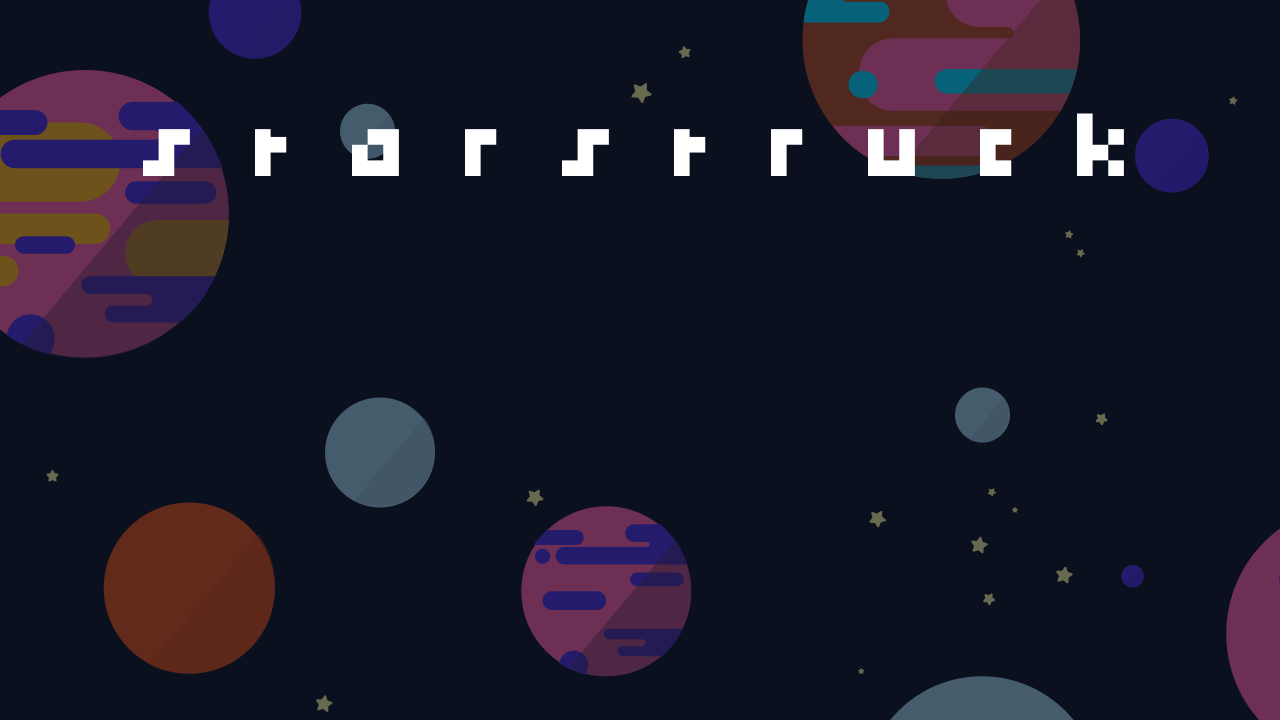
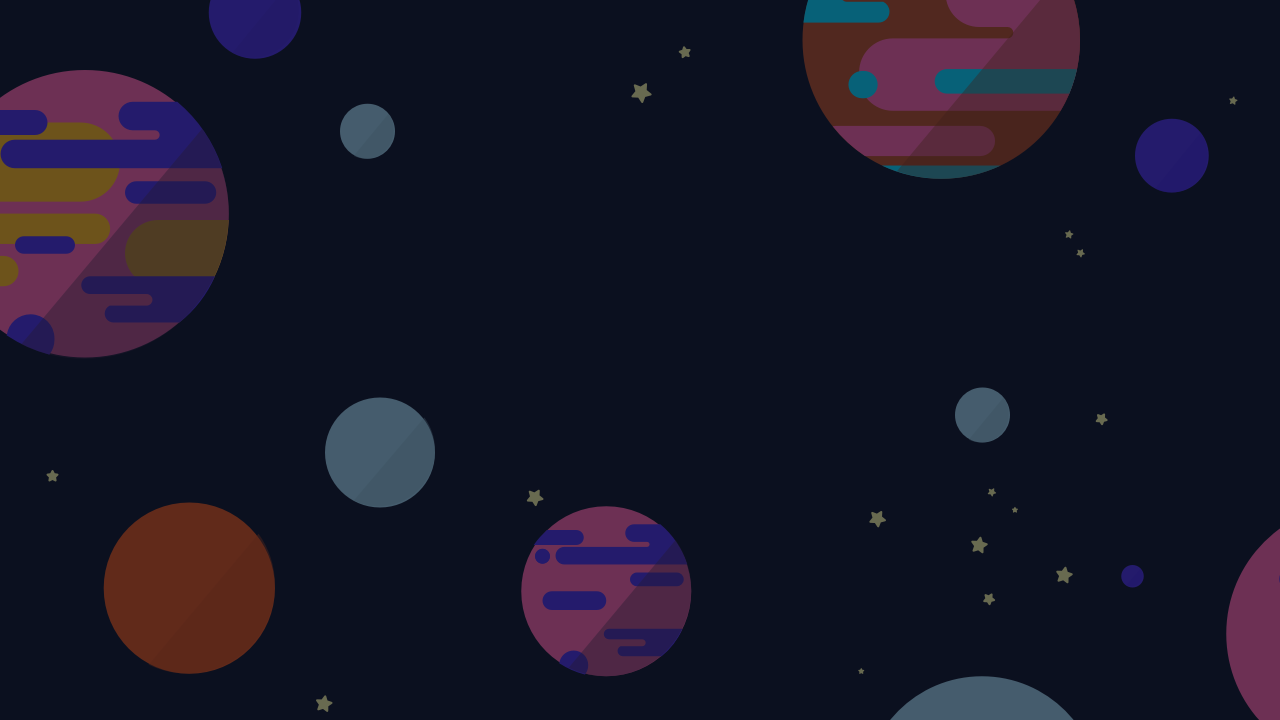
a bunch of UI things

diff --git a/Starstruck/core/src/edu/cornell/gdiac/starstruck/MenuMode.java b/Starstruck/core/src/edu/cornell/gdiac/starstruck/MenuMode.java
@@ -93,6 +93,11 @@ public class MenuMode extends WorldController implements Screen, InputProcessor,
     private Button build;
     /** Background texture for start-up */
     private Texture background;
+    private Texture title;
+
+    private Button close;
+    private Texture overview;
+    private boolean showOverview;
 
     /** Current selected button */
     private Button currentButton = null;
@@ -120,6 +125,7 @@ public class MenuMode extends WorldController implements Screen, InputProcessor,
         super.loadContent(manager);
 
         background = JsonAssetManager.getInstance().getEntry("menu background", Texture.class);
+        title = JsonAssetManager.getInstance().getEntry("title", Texture.class);
 
         buttons = new PooledList<Button>();
 
@@ -154,6 +160,11 @@ public class MenuMode extends WorldController implements Screen, InputProcessor,
         buttons.add(help);
         buttons.add(build);
 
+        overview = JsonAssetManager.getInstance().getEntry("overview", Texture.class);
+        levelButton = JsonAssetManager.getInstance().getEntry("done", TextureRegion.class);
+        close = new Button(canvas.getWidth() / 2 + overview.getWidth() / 2 - levelButton.getRegionWidth()/2, 80, levelButton.getRegionWidth(), levelButton.getRegionHeight(), levelButton,
+                world, new Vector2(1,1), JsonAssetManager.getInstance().getEntry("done glow", TextureRegion.class), "build");
+
         Gdx.input.setInputProcessor(this);
         // Let ANY connected controller start the game.
         for(Controller controller : Controllers.getControllers()) {
@@ -182,6 +193,7 @@ public class MenuMode extends WorldController implements Screen, InputProcessor,
 
         pressState = 0;
         active = false;
+        showOverview =  false;
     }
 
 
@@ -233,21 +245,15 @@ public class MenuMode extends WorldController implements Screen, InputProcessor,
         currentButton = null;
         pressState = 0;
         camOffsetX = 0;
+        showOverview = false;
 
         for (Button b : buttons) {
             b.setActive(false);
             b.pushed = false;
         }
 
-//        if (music != null) {
-////            music.stop();
-////            music.dispose();
-////        }
-
-//        if (GameController.getMusic() != null) {
-////            GameController.getMusic().stop();
-////            GameController.getMusic().dispose();
-////        }
+        close.setActive(false);
+        close.pushed = false;
     }
 
     /**
@@ -355,38 +361,52 @@ public class MenuMode extends WorldController implements Screen, InputProcessor,
         if (pressState == 1 && keycode == Input.Keys.N) {
             pressState = 2;
             currentButton = play;
+            currentButton.pushed = true;
             return false;
         } else if (pressState == 1 && keycode == Input.Keys.P) {
             pressState = 2;
             currentButton = build;
+            currentButton.pushed = true;
             return false;
         } else if (keycode == Input.Keys.ESCAPE) {
             pressState = 2;
-            currentButton = quit;
-            quit.pushed = true;
+            currentButton = showOverview ? close : quit;
+            print(currentButton);
+            currentButton.pushed = true;
             return false;
         }
-
-        if (keycode == Input.Keys.DOWN) {
-            if (currentButton != null) currentButton.setActive(false);
-            buttons.get(curInd).setActive(false);
-            curInd = (curInd + 1) % buttons.size();
-            currentButton = buttons.get(curInd);
-            currentButton.setActive(true);
-        } else if (keycode == Input.Keys.UP) {
-            if (currentButton != null) currentButton.setActive(false);
-            buttons.get(curInd).setActive(false);
-            curInd = (curInd - 1) % buttons.size();
-            if (curInd < 0) {
-                curInd += buttons.size();
-            }
-            currentButton = buttons.get(curInd);
-            currentButton.setActive(true);
-        } else if (keycode == Input.Keys.SPACE || keycode == Input.Keys.ENTER) {
-            if (currentButton != null) {
-                currentButton.pushed = true;
-                currentButton.setActive(false);
+        if (showOverview) {
+            if (keycode == Input.Keys.SPACE || keycode == Input.Keys.ENTER) {
                 pressState = 2;
+                currentButton = close;
+                close.pushed = true;
+            }
+        } else {
+            if (keycode == Input.Keys.DOWN) {
+                if (currentButton != null) currentButton.setActive(false);
+                buttons.get(curInd).setActive(false);
+                curInd = (curInd + 1) % buttons.size();
+                currentButton = buttons.get(curInd);
+                currentButton.setActive(true);
+            } else if (keycode == Input.Keys.UP) {
+                if (currentButton != null) currentButton.setActive(false);
+                buttons.get(curInd).setActive(false);
+                curInd = (curInd - 1) % buttons.size();
+                if (curInd < 0) {
+                    curInd += buttons.size();
+                }
+                currentButton = buttons.get(curInd);
+                currentButton.setActive(true);
+            } else if (keycode == Input.Keys.SPACE || keycode == Input.Keys.ENTER) {
+                if (currentButton != null) {
+                    currentButton.pushed = true;
+                    currentButton.setActive(false);
+                    pressState = 2;
+                } else {
+                    play.pushed = true;
+                    play.setActive(true);
+                    pressState = 2;
+                }
             }
         }
         return true;
@@ -448,11 +468,19 @@ public class MenuMode extends WorldController implements Screen, InputProcessor,
         screenY = heightY - screenY;
 
         currentButton = null;
-        for (Button b : buttons) {
-            b.setActive(false);
-            if (b.isIn(screenX,screenY)) {
-                currentButton = b;
-                b.setActive(true);
+        if (showOverview) {
+            close.setActive(false);
+            if(close.isIn(screenX, screenY)) {
+                currentButton = close;
+                close.setActive(true);
+            }
+        } else {
+            for (Button b : buttons) {
+                b.setActive(false);
+                if (b.isIn(screenX, screenY)) {
+                    currentButton = b;
+                    b.setActive(true);
+                }
             }
         }
         return true;
@@ -486,10 +514,16 @@ public class MenuMode extends WorldController implements Screen, InputProcessor,
                 listener.exitScreen(this, WorldController.EXIT_SETTINGS);
             } else if (isReady() && quit.pushed) {
                 listener.exitScreen(this, WorldController.EXIT_QUIT);
-            } else if (isReady() && help.pushed) {
-                listener.exitScreen(this, WorldController.EXIT_PLAY);
             } else if (isReady() && build.pushed) {
                 listener.exitScreen(this, WorldController.EXIT_EDIT);
+            } else if (isReady() && help.pushed) {
+                showOverview = !showOverview;
+                pressState = 0;
+                help.pushed = false;
+            } else if (isReady() && close.pushed) {
+                close.pushed = false;
+                pressState = 0;
+                showOverview = !showOverview;
             }
         }
     }
@@ -624,8 +658,14 @@ public class MenuMode extends WorldController implements Screen, InputProcessor,
 
         canvas.begin();
         canvas.draw(background, 0, 0);
-        for (Button b : buttons) {
-            b.draw(canvas);
+        if (showOverview) {
+            canvas.draw(overview, canvas.getWidth() / 2 - overview.getWidth() / 2, 130);
+            close.draw(canvas);
+        } else {
+            for (Button b : buttons) {
+                b.draw(canvas);
+            }
+            canvas.draw(title, canvas.getWidth() / 2 - title.getWidth() / 2, canvas.getHeight() * 4 / 5);
         }
         canvas.end();
 

diff --git a/Starstruck/core/src/edu/cornell/gdiac/starstruck/GameController.java b/Starstruck/core/src/edu/cornell/gdiac/starstruck/GameController.java
@@ -114,7 +114,7 @@ public class GameController extends WorldController implements ContactListener {
     /** Width of the rounded cap on left*/
     private static int PROGRESS_CAP_LEFT = 80;
     /** Width of the rounded cap on right*/
-    private static int PROGRESS_CAP_RIGHT = 10;
+    private static int PROGRESS_CAP_RIGHT = 11;
     /** Width of the middle portion in texture atlas */
     private static int PROGRESS_MIDDLE = 338;
 
@@ -1097,7 +1097,6 @@ public class GameController extends WorldController implements ContactListener {
                     float vertMove = input.getVertical();
                     avatar.setPlanetMove(contactDir.scl((float)Math.sqrt(move * move + vertMove * vertMove)));
                     if (Math.abs(contactDir.angle(dir)) > 90) {
-                        //print("here");
                         avatar.setPlanetMove(contactDir.cpy().scl(-1));
                     }
                 }
@@ -1107,7 +1106,6 @@ public class GameController extends WorldController implements ContactListener {
                 avatar.moving = true;
             }
             if (anchord() && !auto && !testC) {
-                //print(contactPoint);
                 avatar.curJumping = true;
                 avatar.setJumping(true);
                 SoundController.getInstance().play(JUMP_FILE, JUMP_FILE, false, EFFECT_VOLUME);
@@ -1156,7 +1154,6 @@ public class GameController extends WorldController implements ContactListener {
                 }
                 if (input.didXbox()) {
                     Vector2 dir = new Vector2(1,0).rotateRad(input.getAngle());
-                    //print(dir.scl(10));
                     avatar.setPlanetMove(dir);
                     avatar.moving = true;
                     boolean vertical = avatar.getAngle() <= 0 && input.xboxDown();
@@ -1168,7 +1165,6 @@ public class GameController extends WorldController implements ContactListener {
                 }
                 if (input.didPrimary()) {
                     avatar.curJumping = true;
-                    //print(contactPoint);
                     avatar.setJumping(true);
                     SoundController.getInstance().play(JUMP_FILE, JUMP_FILE, false, EFFECT_VOLUME);
                     contactDir.set(avatar.getPosition().cpy().sub(curPlanet.getPosition()));
@@ -1269,7 +1265,6 @@ public class GameController extends WorldController implements ContactListener {
             avatar.setOnPlanet(false);
             avatar.setUnAnchored();
             Vector2 dir = portalpairCache.trailPortal.getPosition().cpy().sub(avatar.getPosition());
-            print(dir);
             dir.setLength(portalAvatar.portalVel.len()*2);
             avatar.setLinearVelocity(dir);
             portalAvatar.setLinearVelocity(portalAvatar.portalVel);

diff --git a/Starstruck/core/src/edu/cornell/gdiac/starstruck/Settings.java b/Starstruck/core/src/edu/cornell/gdiac/starstruck/Settings.java
@@ -345,6 +345,7 @@ public class Settings extends WorldController implements Screen, InputProcessor,
         if (buttons.getTail() == null) { return true; }
 
         if (keycode == Input.Keys.ESCAPE) {
+            active1.setActive(true);
             pressState = 2;
             play.pushed = true;
             return false;
@@ -366,10 +367,15 @@ public class Settings extends WorldController implements Screen, InputProcessor,
                 currentButton = play;
             }
             currentButton.setActive(true);
-        } else if (keycode == Input.Keys.ENTER || keycode == Input.Keys.SPACE) {            if (currentButton != null) {
+        } else if (keycode == Input.Keys.ENTER || keycode == Input.Keys.SPACE) {
+            if (currentButton != null) {
                 currentButton.pushed = true;
                 if (currentButton.equals(play)) currentButton.setActive(false);
                 pressState = 2;
+            } if (numPlayers == 0) {
+                active1.setActive(true);
+                pressState = 2;
+                play.pushed = true;
             }
         }
         return true;
@@ -470,10 +476,20 @@ public class Settings extends WorldController implements Screen, InputProcessor,
                 } else {
                     listener.exitScreen(this, WorldController.EXIT_PLAY, Integer.toString(numPlayers));
                 }
-            } else if (isReady() && currentButton == onePlayer && onePlayer.pushed) {
-                numPlayers = 1;
-            } else if (isReady() && currentButton == twoPlayer && twoPlayer.pushed) {
-                numPlayers = 2;
+            } else if (numPlayers == 0) {
+                if (isReady() && currentButton == onePlayer && onePlayer.pushed) {
+                    numPlayers = 1;
+                    listener.exitScreen(this, WorldController.EXIT_QUIT, Integer.toString(numPlayers));
+                } else if (isReady() && currentButton == twoPlayer && twoPlayer.pushed) {
+                    numPlayers = 2;
+                    listener.exitScreen(this, WorldController.EXIT_QUIT, Integer.toString(numPlayers));
+                }
+            } else {
+                if (isReady() && currentButton == onePlayer && onePlayer.pushed) {
+                    numPlayers = 1;
+                } else if (isReady() && currentButton == twoPlayer && twoPlayer.pushed) {
+                    numPlayers = 2;
+                }
             }
         }
     }

diff --git a/Starstruck/core/src/edu/cornell/gdiac/starstruck/LevelSelect.java b/Starstruck/core/src/edu/cornell/gdiac/starstruck/LevelSelect.java
@@ -176,6 +176,8 @@ public class LevelSelect extends WorldController implements Screen, InputProcess
         level.populate(levelFormat);
         levels = level.getLevels();
 
+        lastLevel = level.firstLevel;
+        nextLevel = lastLevel.nextLevel;
 
         Gdx.input.setInputProcessor(this);
         // Let ANY connected controller start the game.
@@ -215,6 +217,8 @@ public class LevelSelect extends WorldController implements Screen, InputProcess
      * @return Return a reference to the primary avatar.
      */
     public AstronautModel getAvatar() { return avatar; }
+
+    public Level getFirstLevel() { return level.firstLevel; }
 
     /**
      * Creates and initialize a new instance of the platformer game

diff --git a/Starstruck/core/src/edu/cornell/gdiac/starstruck/Starstruck.java b/Starstruck/core/src/edu/cornell/gdiac/starstruck/Starstruck.java
@@ -197,7 +197,6 @@ public class Starstruck extends Game implements ScreenListener {
 		} else if (exitCode == WorldController.EXIT_SELECT) {
 			current = WorldController.EXIT_SELECT;
 			controllers[current].reset();
-			//((LevelSelect)controllers[current]).resetMusic();
 			setScreen(controllers[current]);
 		} else if (exitCode == WorldController.EXIT_EDIT) {
 			current = WorldController.EXIT_EDIT;
